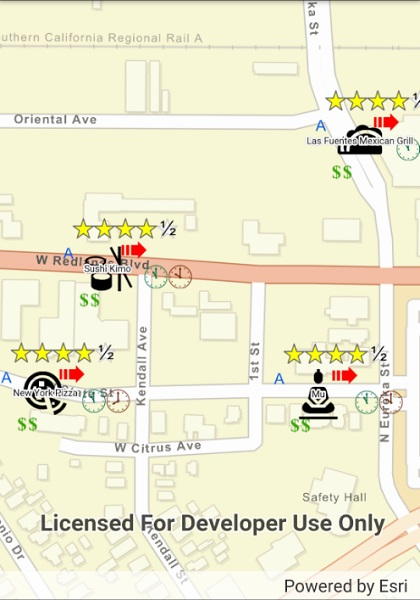
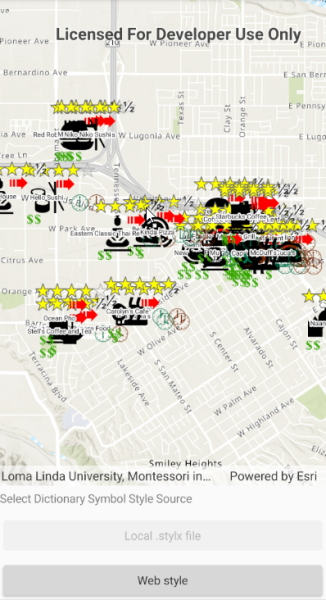
Added Xamarin.Forms Android Screenshot

diff --git a/src/Forms/Shared/Samples/Symbology/CustomDictionaryStyle/CustomDictionaryStyle.xaml b/src/Forms/Shared/Samples/Symbology/CustomDictionaryStyle/CustomDictionaryStyle.xaml
@@ -12,15 +12,15 @@
         <esriUI:MapView x:Name="MyMapView" Grid.Row="0" />
         <Label Grid.Row="1"
                Padding="0,0,0,5"
-               Text="Custom Dictionary Symbol Style Source" />
+               Text="Select Dictionary Symbol Style Source" />
         <Button x:Name="LocalStyleButton"
                 Grid.Row="2"
                 Clicked="LocalStyleButtonClicked"
+                IsEnabled="False"
                 Text="Local .stylx file" />
         <Button x:Name="WebStyleButton"
                 Grid.Row="3"
                 Clicked="WebStyleButtonClicked"
-                IsEnabled="False"
                 Text="Web style" />
     </Grid>
 </ContentPage>

diff --git a/src/Forms/Shared/Samples/Symbology/CustomDictionaryStyle/CustomDictionaryStyle.xaml.cs b/src/Forms/Shared/Samples/Symbology/CustomDictionaryStyle/CustomDictionaryStyle.xaml.cs
@@ -12,6 +12,7 @@ using Esri.ArcGISRuntime.Mapping;
 using Esri.ArcGISRuntime.Portal;
 using Esri.ArcGISRuntime.Symbology;
 using System;
+using System.Threading.Tasks;
 using Xamarin.Forms;
 
 namespace ArcGISRuntimeXamarin.Samples.CustomDictionaryStyle
@@ -41,10 +42,10 @@ namespace ArcGISRuntimeXamarin.Samples.CustomDictionaryStyle
         public CustomDictionaryStyle()
         {
             InitializeComponent();
-            Initialize();
+            _ = Initialize();
         }
 
-        private async void Initialize()
+        private async Task Initialize()
         {
             try
             {
@@ -74,8 +75,11 @@ namespace ArcGISRuntimeXamarin.Samples.CustomDictionaryStyle
                 // Set the map to the map view.
                 MyMapView.Map = map;
 
-                // Set the local style button to be clicked.  
-                LocalStyleButton.IsEnabled = true;
+                // Create the dictionary renderer with the style file and the field overrides.
+                DictionaryRenderer dictionaryRenderer = new DictionaryRenderer(_localRestaurantStyle);
+
+                // Set the restaurant layer renderer to the dictionary renderer.
+                _restaurantLayer.Renderer = dictionaryRenderer;
             }
             catch (Exception ex)
             {

diff --git a/src/WinUI/ArcGISRuntime.WinUI.Viewer/Samples/Symbology/CustomDictionaryStyle/CustomDictionaryStyle.xaml.cs b/src/WinUI/ArcGISRuntime.WinUI.Viewer/Samples/Symbology/CustomDictionaryStyle/CustomDictionaryStyle.xaml.cs
@@ -12,6 +12,7 @@ using Esri.ArcGISRuntime.Mapping;
 using Esri.ArcGISRuntime.Portal;
 using Esri.ArcGISRuntime.Symbology;
 using System;
+using System.Threading.Tasks;
 
 namespace ArcGISRuntime.WinUI.Samples.CustomDictionaryStyle
 {
@@ -40,10 +41,10 @@ namespace ArcGISRuntime.WinUI.Samples.CustomDictionaryStyle
         public CustomDictionaryStyle()
         {
             InitializeComponent();
-            Initialize();
+            _ = Initialize();
         }
 
-        private async void Initialize()
+        private async Task Initialize()
         {
             try
             {

diff --git a/src/WPF/ArcGISRuntime.WPF.Viewer/Samples/Symbology/CustomDictionaryStyle/CustomDictionaryStyle.xaml.cs b/src/WPF/ArcGISRuntime.WPF.Viewer/Samples/Symbology/CustomDictionaryStyle/CustomDictionaryStyle.xaml.cs
@@ -12,6 +12,7 @@ using Esri.ArcGISRuntime.Mapping;
 using Esri.ArcGISRuntime.Portal;
 using Esri.ArcGISRuntime.Symbology;
 using System;
+using System.Threading.Tasks;
 
 namespace ArcGISRuntime.WPF.Samples.CustomDictionaryStyle
 {
@@ -40,10 +41,10 @@ namespace ArcGISRuntime.WPF.Samples.CustomDictionaryStyle
         public CustomDictionaryStyle()
         {
             InitializeComponent();
-            Initialize();
+            _ = Initialize();
         }
 
-        private async void Initialize()
+        private async Task Initialize()
         {
             try
             {
